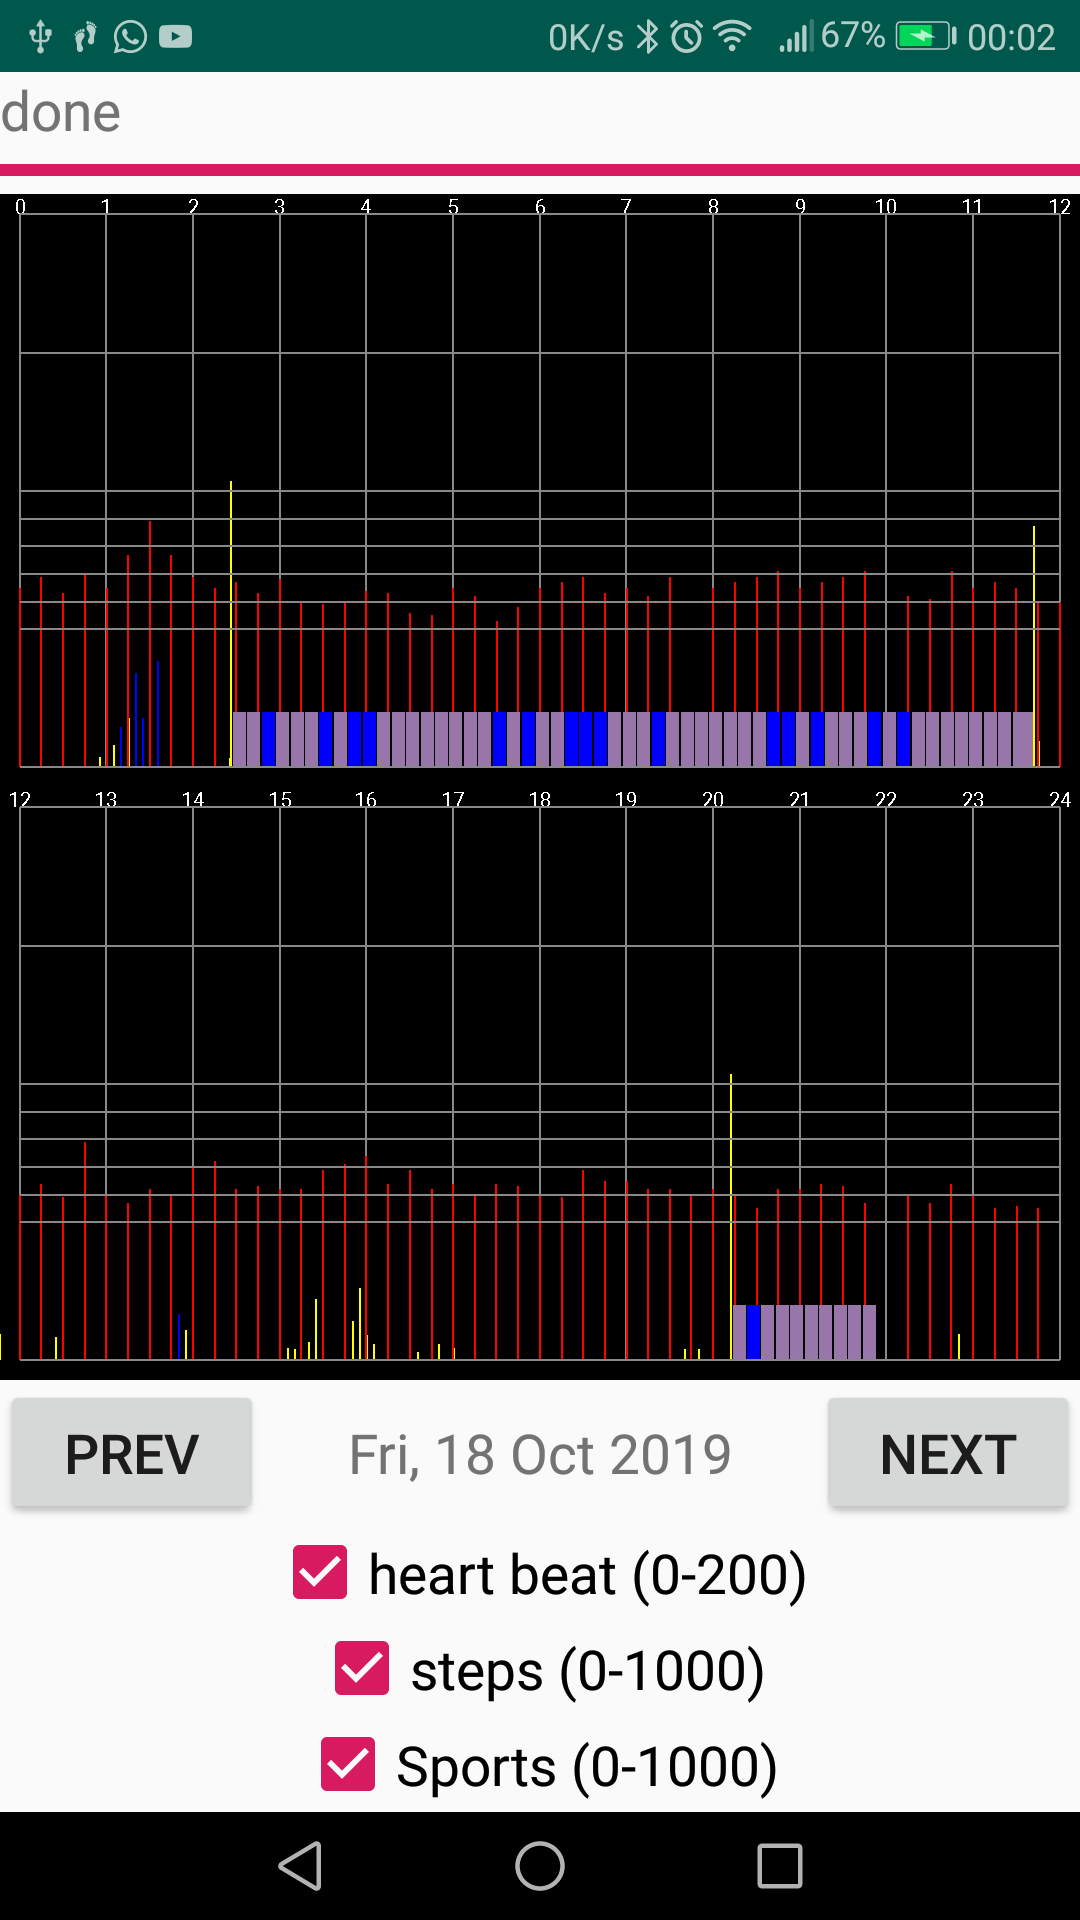
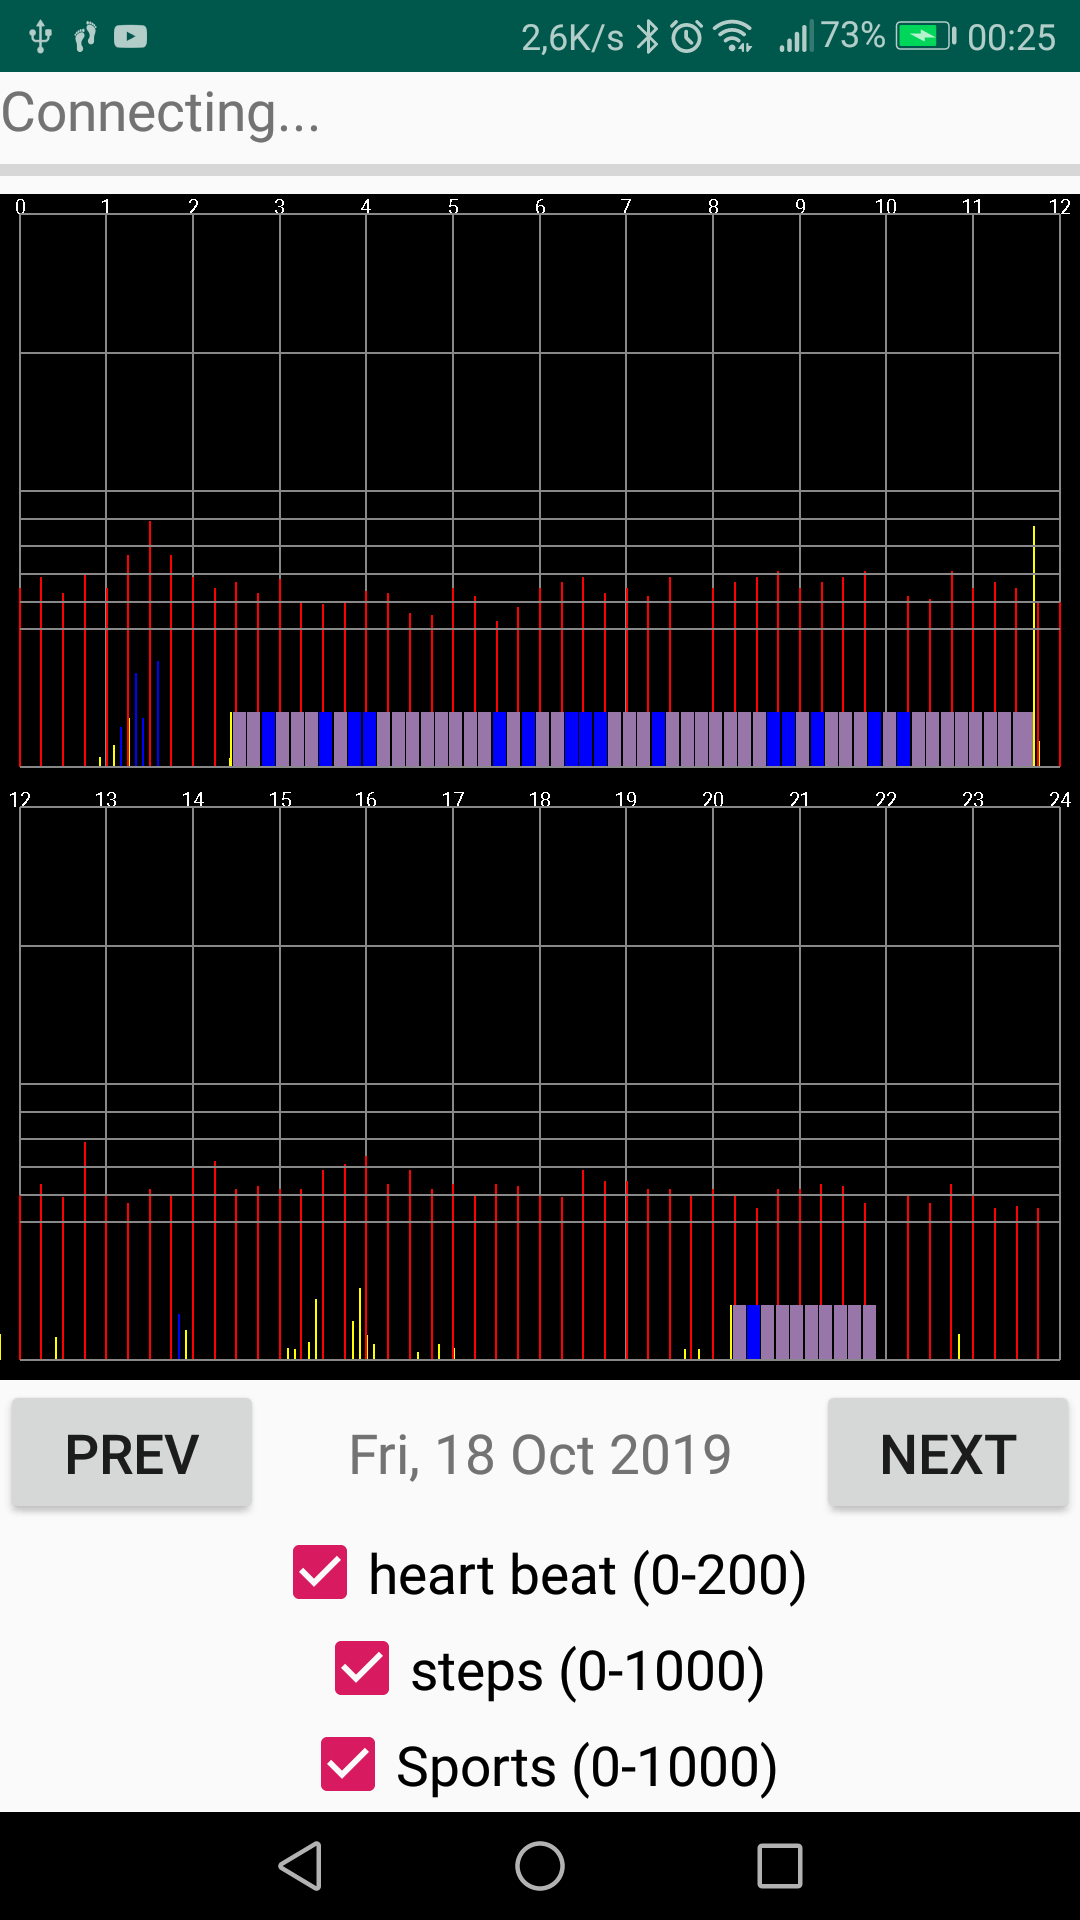
fixing height of the yellow sleeping marker

diff --git a/app/src/main/java/com/example/dsd6/DrawChart.java b/app/src/main/java/com/example/dsd6/DrawChart.java
@@ -183,8 +183,7 @@ class DrawChart extends View {
                         switch(data.flags) {
                             case 0: { //start sleeping
                                 int xx = mapX((int) data.timestamp - eventDuration, (int) mIniTime, (int) mFinTime);
-                                int yy1 = mapY(maxY * 1 / 10, 0, maxY);
-                                drawBar(canvas, xx, yy1, 1000, paintYellow); // unknown
+                                drawBar(canvas, xx, 100, 1000, paintYellow); // unknown
                                 break;
                             }
                             case 1: { // sleep quality, the span of this is 10 minutes
